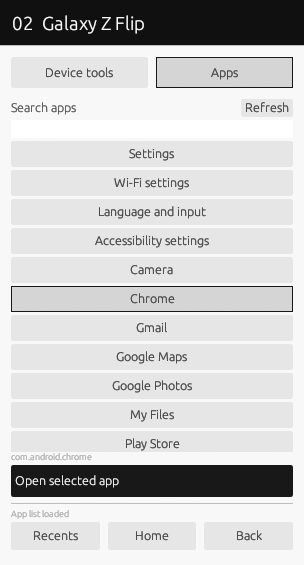
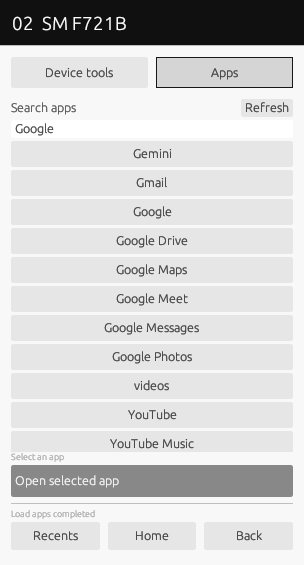
Document the local API with live device screenshots

diff --git a/README.md b/README.md
@@ -4,23 +4,21 @@
 
 **Android Device Desk는 Windows PC에서 여러 안드로이드 기기의 화면을 한눈에 보고 조작하는 데스크톱 앱입니다.** Windows 표시 언어가 한국어이면 한국어, 그 외에는 영어로 표시합니다. 기기 격자에서 폰을 드래그로 묶고, 대표 화면을 한 번 탭하거나 스와이프해 선택한 기기에 같은 입력을 전달할 수 있습니다. 한 대를 자세히 볼 때는 별도의 미러링 창과 기기 조작 패널을 엽니다.
 
-> USB 인터넷 공유, 드래그 후 동시 조작 창 자동 열림, Windows 표시 언어 감지는 현재 소스 빌드에 적용됩니다. v0.1.0 릴리스에서는 드래그 후 **동시 조작** 버튼을 누릅니다.
+> 화면과 사용 방법은 현재 main 소스 빌드를 기준으로 합니다. USB 인터넷 공유, 로컬 API, Windows 언어 감지, 드래그 후 동시 조작 창 자동 열림을 포함합니다. v0.1.0 릴리스에서는 드래그 후 **동시 조작** 버튼을 누릅니다.
 
-## 화면 미리보기
+## 실제 연결 화면
 
-샘플 기기로 촬영한 화면입니다. 썸네일을 누르면 큰 이미지가 열립니다.
+Windows에서 기기 데스크를 실행하고 USB로 연결한 Android 기기 화면을 촬영했습니다. 이미지를 누르면 크게 볼 수 있습니다.
 
-| 한국어 대시보드 | 영어 대시보드 |
-| --- | --- |
-| <a href="docs/screenshots/dashboard-ko.png"><img src="docs/screenshots/dashboard-ko.png" width="420" alt="한국어 기기 격자와 컨트롤 패널"></a> | <a href="docs/screenshots/dashboard-en.png"><img src="docs/screenshots/dashboard-en.png" width="420" alt="영어 기기 격자와 컨트롤 패널"></a> |
+[![연결된 갤럭시와 로키드 안경의 미리보기가 보이는 대시보드](docs/screenshots/dashboard-actual.png)](docs/screenshots/dashboard-actual.png)
 
 | 동시 조작 | 개별 기기 도구 | 앱 검색과 실행 |
 | :---: | :---: | :---: |
-| <a href="docs/screenshots/batch-control.png"><img src="docs/screenshots/batch-control.png" width="225" alt="대표 화면이 열린 동시 조작 창"></a> | <a href="docs/screenshots/device-tools.png"><img src="docs/screenshots/device-tools.png" width="225" alt="APK 설치와 캡처 등 개별 기기 도구"></a> | <a href="docs/screenshots/app-launcher.png"><img src="docs/screenshots/app-launcher.png" width="225" alt="설치된 앱 검색 및 실행 화면"></a> |
+| <a href="docs/screenshots/batch-control.png"><img src="docs/screenshots/batch-control.png" width="225" alt="실제 갤럭시 화면이 표시된 동시 조작 창"></a> | <a href="docs/screenshots/device-tools.png"><img src="docs/screenshots/device-tools.png" width="225" alt="선택한 갤럭시의 APK·캡처·파일 전송 도구"></a> | <a href="docs/screenshots/app-launcher.png"><img src="docs/screenshots/app-launcher.png" width="225" alt="갤럭시에서 조회한 앱 목록과 영어 앱 실행 패널"></a> |
 
-**기기 필터와 태그** · QA 태그를 골라 선택한 기기와 소형 창 설정을 확인하는 화면
-
-<a href="docs/screenshots/device-filters.png"><img src="docs/screenshots/device-filters.png" width="760" alt="QA 태그 필터와 선택된 기기"></a>
+| USB 인터넷 공유 | 로컬 API |
+| :---: | :---: |
+| <a href="docs/screenshots/usb-internet.png"><img src="docs/screenshots/usb-internet.png" width="390" alt="USB로 연결된 갤럭시 3대를 선택한 인터넷 공유 창"></a> | <a href="docs/screenshots/local-api.png"><img src="docs/screenshots/local-api.png" width="390" alt="실행 중인 로컬 API의 주소와 엔드포인트"></a> |
 
 ## 주요 기능
 
@@ -79,6 +77,19 @@ Get-FileHash .\AndroidDeviceDesk.exe -Algorithm SHA256
 4. 폰의 Wi-Fi와 모바일 데이터가 꺼진 상태에서도 브라우저에서 웹사이트를 열 수 있습니다. 종료하려면 **선택 기기에 끄기** 또는 **모두 끄기**를 사용합니다.
 
 PC와 USB 케이블이 연결돼 있고 기기 데스크가 실행 중이어야 합니다. Android의 VPN을 사용하므로 기존 VPN이 있는 기기에서는 전환이 필요할 수 있습니다. Gnirehtet은 IPv4 TCP·UDP를 전달합니다. USB를 뽑았다 다시 연결한 기기는 공유를 다시 켤 수 있습니다. [Gnirehtet 사용 안내](https://github.com/Genymobile/gnirehtet/tree/v2.5.1)
+
+## 로컬 API 빠르게 시작하기
+
+1. 기기 데스크 오른쪽에서 **로컬 API → 서버 켜기 → API 토큰 복사**를 누릅니다.
+2. 이 PC의 PowerShell에서 기기 번호와 제어 가능 상태를 조회합니다.
+
+```powershell
+$api = 'http://127.0.0.1:17653'
+$headers = @{ Authorization = 'Bearer ' + (Get-Clipboard -Raw).Trim() }
+Invoke-RestMethod "$api/v1/devices" -Headers $headers
+```
+
+`POST /v1/actions`에 기기 번호 하나, 번호 목록, 또는 `"all"`을 보내면 사이트 열기, 앱 실행, 대기, 탭, 스와이프를 요청 순서대로 처리합니다. 반환된 `job_id`로 기기별 결과를 확인합니다. [API 사용 문서와 PowerShell 예제](docs/API.md)
 
 ## 구조와 데이터 저장
 

diff --git a/README.en.md b/README.en.md
@@ -4,23 +4,21 @@
 
 **Android Device Desk is a Windows desktop app for mirroring and controlling multiple Android devices.** Drag across the device grid to select several phones, then use a representative screen to send the same tap or swipe to the group. Open a separate full-size mirror and control panel when you need to work on one device. The interface follows the Windows display language and uses English for all display languages other than Korean.
 
-> The source build includes USB Internet sharing, automatic batch-window opening, and Windows display-language detection. In release v0.1.0, click **Batch Control** after dragging.
+> These screenshots and instructions cover the current main source build, which includes USB Internet sharing, the local API, Windows display-language detection, and automatic batch-window opening. In release v0.1.0, click **Batch Control** after dragging.
 
-## Screenshots
+## Screenshots from connected devices
 
-Captured with sample devices. Select a thumbnail to open the larger image.
+Captured in Device Desk on Windows with Android devices connected over USB. Select an image to open the larger capture.
 
-| Korean dashboard | English dashboard |
-| --- | --- |
-| <a href="docs/screenshots/dashboard-ko.png"><img src="docs/screenshots/dashboard-ko.png" width="420" alt="Korean device grid and controls"></a> | <a href="docs/screenshots/dashboard-en.png"><img src="docs/screenshots/dashboard-en.png" width="420" alt="English device grid and controls"></a> |
+[![Dashboard showing previews from connected Galaxy phones and Rokid glasses](docs/screenshots/dashboard-actual.png)](docs/screenshots/dashboard-actual.png)
 
-| Batch control | Individual device tools | App search and launcher |
+| Batch control | Device tools | App search and launcher |
 | :---: | :---: | :---: |
-| <a href="docs/screenshots/batch-control.png"><img src="docs/screenshots/batch-control.png" width="225" alt="Batch window with representative screen"></a> | <a href="docs/screenshots/device-tools.png"><img src="docs/screenshots/device-tools.png" width="225" alt="Device tools including APK installation and screenshots"></a> | <a href="docs/screenshots/app-launcher.png"><img src="docs/screenshots/app-launcher.png" width="225" alt="Installed apps with search and a launch button"></a> |
+| <a href="docs/screenshots/batch-control.png"><img src="docs/screenshots/batch-control.png" width="225" alt="Batch controls with a live Galaxy screen"></a> | <a href="docs/screenshots/device-tools.png"><img src="docs/screenshots/device-tools.png" width="225" alt="Galaxy device tools for APKs, screenshots, and files"></a> | <a href="docs/screenshots/app-launcher.png"><img src="docs/screenshots/app-launcher.png" width="225" alt="English app launcher showing apps queried from a Galaxy phone"></a> |
 
-**Device filters and tags** · The QA tag narrows the grid and keeps the small-window settings in view.
-
-<a href="docs/screenshots/device-filters.png"><img src="docs/screenshots/device-filters.png" width="760" alt="QA tag filter and selected devices"></a>
+| USB Internet sharing | Local API |
+| :---: | :---: |
+| <a href="docs/screenshots/usb-internet.png"><img src="docs/screenshots/usb-internet.png" width="390" alt="Internet sharing panel with three USB-connected Galaxy phones selected"></a> | <a href="docs/screenshots/local-api.png"><img src="docs/screenshots/local-api.png" width="390" alt="Running local API showing its address and endpoints"></a> |
 
 ## Features
 
@@ -79,6 +77,19 @@ Tap and swipe locations are relative to the representative image and are mapped 
 4. With Wi-Fi and mobile data disabled, open a website in the phone’s browser. Choose **Disable for selected** or **Disable all** to end sharing.
 
 Keep Device Desk running and the USB cable connected. Sharing uses Android’s VPN facility, so an existing VPN may need to be switched. Gnirehtet relays IPv4 TCP and UDP. If a device is unplugged, reconnect it and enable sharing again. [Gnirehtet documentation](https://github.com/Genymobile/gnirehtet/tree/v2.5.1)
+
+## Get started with the local API
+
+1. In Device Desk, choose **Local API → Start server → Copy API token**.
+2. In PowerShell on the same PC, query device numbers and control availability.
+
+```powershell
+$api = 'http://127.0.0.1:17653'
+$headers = @{ Authorization = 'Bearer ' + (Get-Clipboard -Raw).Trim() }
+Invoke-RestMethod "$api/v1/devices" -Headers $headers
+```
+
+Send a single device number, an array of numbers, or `"all"` to `POST /v1/actions` to run website, app, wait, tap, and swipe steps in order. Use the returned `job_id` to check the result for each device. [API reference and PowerShell examples](docs/API.md)
 
 ## Architecture and local data
 
